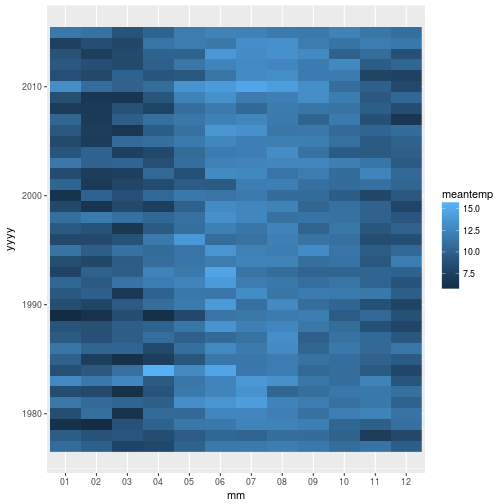
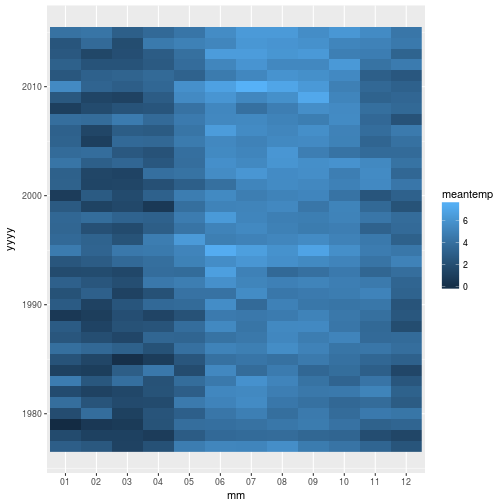
Use just one type of missing for windspeed

diff --git a/_episodes/05-multifiles.md b/_episodes/05-multifiles.md
@@ -199,7 +199,7 @@ loadWeatherData <- function(infiles){
     weather <- weather %>% mutate(recdate = lubridate::ymd_h(paste(yyyy,mm,dd,hh)))
     
     missingvalues <- c(winddir = -999,
-                       windspeed = -99.9, ## Some records use this as missing
+                       windspeed = -99.9, 
                        windsteadiness = -9,
                        pressure = -999.9,
                        temperature2m = -999.9,
@@ -325,7 +325,7 @@ cleanweather %>%
 
 ~~~
 cleanweather %>% 
-  filter(hh == "00") %>% 
+  filter(hh == "15") %>% 
   group_by(yyyy,mm) %>% 
   summarise(meantemp = mean(temperature2m, na.rm=TRUE)) %>% 
   ggplot(aes(x=mm,y=yyyy,fill=meantemp)) + geom_raster()
